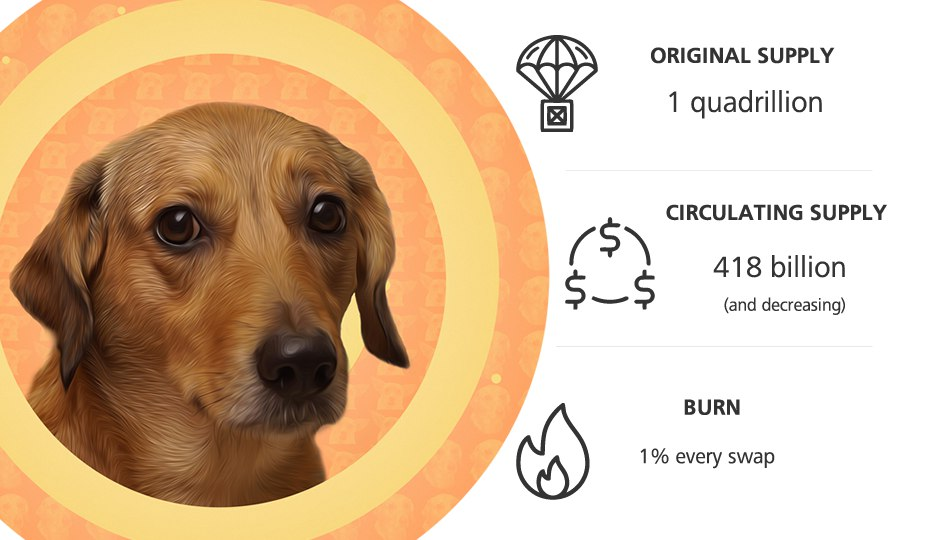
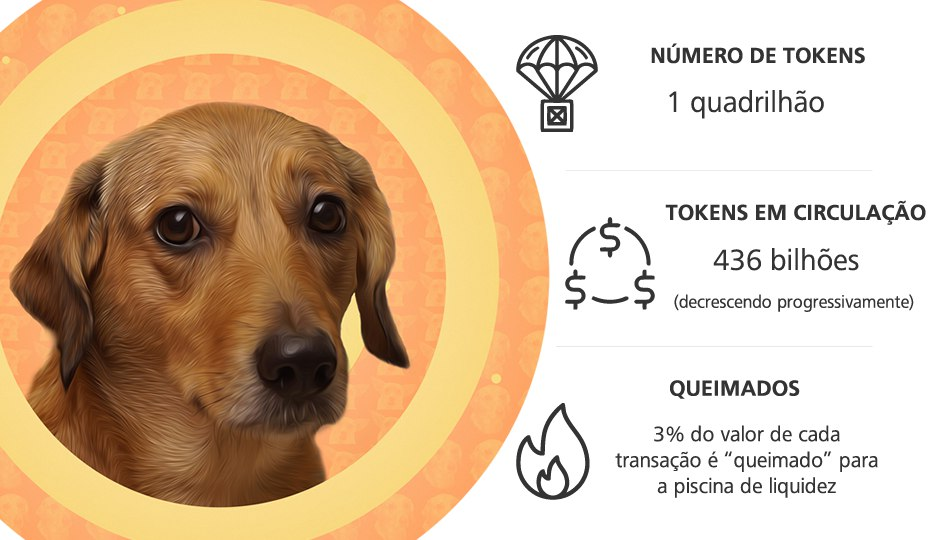
Portuguese Version

diff --git a/index.html b/index.html
@@ -20,33 +20,32 @@
 				<h1>
 					VIRA-LATA FINANCE
 			</h1>
-				<center><p style="text-align:center;" class="subtitulo">Doge or reals? A bygone era. Now $REAU has finally come to replace them, with a smart contract that benefits those with the strongest of hands 🖐💎
-				</p></center>
-				<button class="btn btn-success2" onclick=" window.open('https://exchange.pancakeswap.finance/#/swap?outputCurrency=0x4c79b8c9cB0BD62B047880603a9DEcf36dE28344','_blank')">Trade $REAU on Pancakeswap</button>	
+				<center><p style="text-align:center;" class="subtitulo">Doge e reais? Coisa do passado. Agora o $reAUUU veio para substituí-los, com um contrato inteligente que beneficia aqueles que têm mãos de diamante 🖐💎</p></center>
+				<button class="btn btn-success2" onclick=" window.open('https://exchange.pancakeswap.finance/#/swap?outputCurrency=0x4c79b8c9cB0BD62B047880603a9DEcf36dE28344','_blank')">Comprar $REAU no Pancakeswap</button>	
 		</br>
 		<div></div>
-				<button class="btn btn-success" onclick=" window.open('http://t.me/viralatafinance_eng','_blank')">Join the English community at telegram!</button>
+				<button class="btn btn-success" onclick=" window.open('http://t.me/viralatafinance','_blank')">Entre no grupo do Telegram!</button>
 				<div></div>
-	</br>
-				<a href=viralata.finance><img src=images/usa.png></a>&nbsp;&nbsp;&nbsp;&nbsp;&nbsp;&nbsp;&nbsp;&nbsp;&nbsp;&nbsp;&nbsp;				<a href=br.viralata.finance><img src=images/brsmall.png></a>
-			</div>
-			
 				</br>
-				<a class="textos-header">Important info:</a></br>
-				<a class="textos-header" href="https://bscscan.com/address/0x4c79b8c9cb0bd62b047880603a9decf36de28344#code" target="_blank">- 📙 Contract</a></br>
-				<a class="textos-header" href="https://bscscan.com/tx/0x651ad1045e82872f5acdc6c2f13881ca89cae4bc84e30030ac198ad619ce4f0c" target="_blank">- 💰 Locked liquidity</a></br>
-				<a class="textos-header" href="https://bscscan.com/tx/0xf238758aa8fba04338476497a6a9b6e09de114e669e7c14fcfbb8e788b78c554" target="_blank">- 🙋 Renounced ownership</a></br>
-				<a class="textos-header" href="https://bscscan.com/tx/0x14e16df3172826bbfe0dad1304b5955ccdf3860f938795d43fd493cdefa277f4" target="_blank">- 🔥 50% of the supply sent to the blackhole</a>
+				<a href=https://viralatafinanceeng.surge.sh><img src=images/usa.png></a>&nbsp;&nbsp;&nbsp;&nbsp;&nbsp;&nbsp;&nbsp;&nbsp;&nbsp;&nbsp;&nbsp;				<a href=https://viralatafinance.surge.sh><img src=images/brsmall.png></a>
+			</div>
+				</br>
+				<a class="textos-header">Importante:</a></br>
+				<a class="textos-header" href="https://bscscan.com/address/0x4c79b8c9cb0bd62b047880603a9decf36de28344#code" target="_blank">- 📙 Contrato</a></br>
+				<a class="textos-header" href="https://bscscan.com/tx/0x651ad1045e82872f5acdc6c2f13881ca89cae4bc84e30030ac198ad619ce4f0c" target="_blank">- 💰 Liquidez inicial trancada</a></br>
+				<a class="textos-header" href="https://bscscan.com/tx/0xf238758aa8fba04338476497a6a9b6e09de114e669e7c14fcfbb8e788b78c554" target="_blank">- 🙋 Renúncia da liderança do token</a></br>
+				<a class="textos-header" href="https://bscscan.com/tx/0x14e16df3172826bbfe0dad1304b5955ccdf3860f938795d43fd493cdefa277f4" target="_blank">- 🔥 50% do suprimento enviado ao "blackhole"</a>
+			</br>
 		<!-- Main -->
 			<div id="main">
 				<header class="major container medium">
-					<h2>100% BRAZILIAN
+					<h2>100% BRASILEIRO
 					<br />
-					100% FLEA-RIDDEN 
+					100% PULGUENTO
 					<br />
 					100% BUSINESS
 					<br />
-				WATCH OUT FOR FAKE COPIES!
+				RECUSE IMITAÇÕES
 				</h2>
 					<!--
 					<p>Tellus erat mauris ipsum fermentum<br />
@@ -58,25 +57,25 @@
 					<section class="feature left">
 						<a	 class="image"><img src="images/banner1certo.jpg" alt="" /></a>
 						<div class="content">
-							<h3>WHY?</h3>
-							<p>Since our Brazilian government – despite printing money non-stop – didn't even care to enough to let us put our beloved Vira-Lata in our new R$200 bill, we will make $REAU worth more than 1 real.</p>
+							<h3>POR QUÊ?</h3>
+							<p>Já que nosso governo, apesar de imprimir dinheiro sem parar, não nos deixou colocar o vira-lata caramelo na nota de R$200,00, então vamos fazer o reAUUUUUUUU valer (bem) mais que 1 real.</p>
 						</div>
 					</section>
 					<section class="feature right">
 						<a href="#" class="image"><img class="banner-br" src="images/banner2certo.jpg" alt="" /></a>
 						<div class="content">
 							<h3>DOGE COIN?</h3>
-							<p>Never. Dogecoin is worse than the REAL... no offence to Shiba Inu lovers! DOGE & the Brazilian REAL – in extremely technical terms – are two shitcoins: inflationary, whale-ridden, and ultimately an insiders club. Our coin had a fair launch with an anti-whale mechanism (a 5 trillion limit on the maximum number of tokens bought or sold at once). Btw, the token is a play on words: re (from real) and au (from "whoof" in portuguese)</p>
+							<p>Nunca. Dogecoin é pior do que o real – são, em termos extremamente técnicos, duas shitcoins: inflacionários, dominado por "baleias" e insiders. Nossa moeda teve um lançamento honesto com um mecanismo anti-baleias (o máximo de tokens que pode comprar ou vender por vêssão 5 trilhões).</p>
 						</div>
 					</section>
 					<section class="feature left">
 						<a href="#" class="image"><img src="images/banner3certo.jpg" alt="" /></a>
 						<div class="content">
-							<h3>GENERAL GOALS</h3>
-							<p>To support non-governmental institutions that help abandoned animals;</br>
-								To take DeFi and cryptocurrencies message to the Brazilian public, offering an alternative to the centralized financial system;</br>
-								To encourage the first and most amazing DeFi community in Brazil!</br>
-								To put up at least one billboard in a busy center;</br>
+							<h3>OBJETIVOS GERAIS</h3>
+							<p>Ajudar instituições não governamentais de auxílio a animais abandonados; </br>
+								Levar a mensagem DeFi e criptomoedas ao público brasileiro, oferecendo uma alternativa ao sistema financeiro centralizado; </br>
+								Incentivar a primeira e mais incrível comunidade de DeFi no Brasil!;</br>
+								Pelo menos um outdoor em um centro movimentado;</br>
 								Institutional adoption (HUEHUEHUEHUEHUEH)
 							</p>
 						</div>
@@ -227,10 +226,10 @@
 				-->
 
 				<footer class="major container medium">
-					<h3>Do you want help our beloved Vira-lata?</h3>
-					<p>It's easy! Make memes, songs, videos, and tell everyone you know about Vira-Lata Caramelo Finance.</p>
+					<h3>Quer ajudar a Vira-lata Finance?</h3>
+					<p>É muito fácil: basta ser criativo e criar um meme envolvendo a moeda ou o nosso doguíneo. Não tem criatividade o suficiente? Então ajuda a compartilhar que tá mais do que bom!</p>
 					<ul class="actions special">
-						<li><a href="#" onclick=" window.open('http://www.twitter.com/viralatafinance','_blank')" class="button">FOLLOW US ON TWITTER!</a></li>
+						<li><a href="#" onclick=" window.open('http://www.twitter.com/viralatafinance','_blank')" class="button">Siga-nos no twitter!</a></li>
 					</ul>
 				</footer>
 
@@ -247,7 +246,7 @@
 					</ul>
 
 					<ul class="copyright">
-						<li>&copy; Vira-lata Finance. All rights reserved.</li>
+						<li>&copy; Vira-lata Finance. Todos os direitos reservados.</li>
 					</ul>
 
 				</div>
